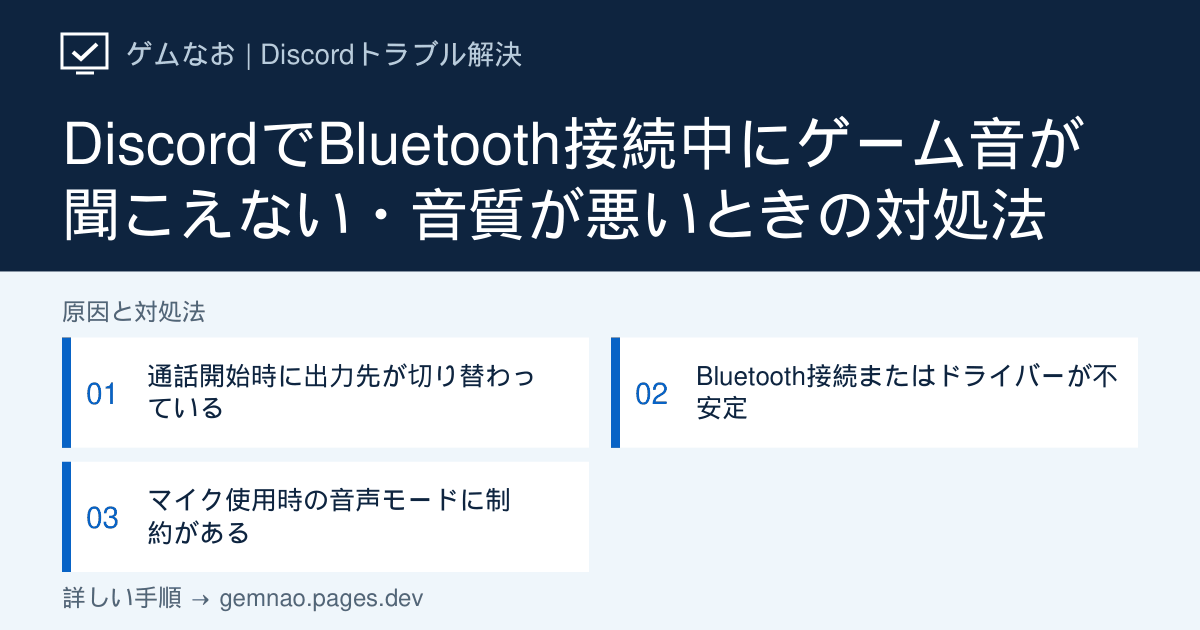
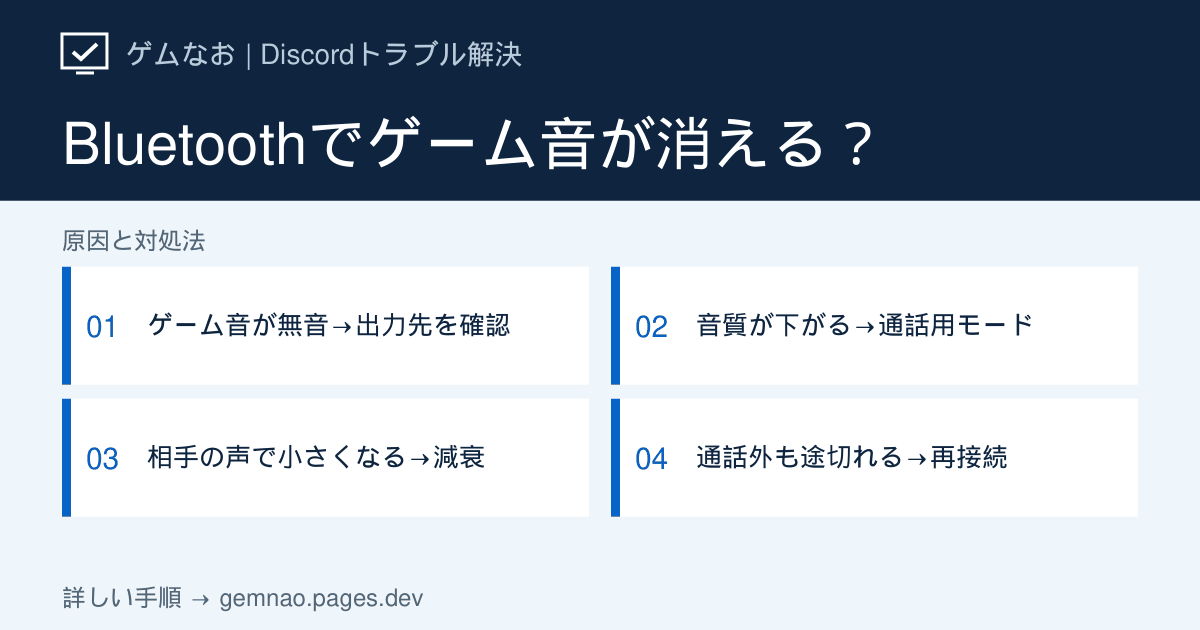
Improve Discord Bluetooth game audio troubleshooting guide

diff --git a/lib/discord-audio-growth-articles.ts b/lib/discord-audio-growth-articles.ts
@@ -31,6 +31,22 @@ const windowsBluetooth = {
   label: 'Microsoft公式：WindowsのBluetooth問題を解決する',
   url: 'https://support.microsoft.com/windows/fix-bluetooth-problems-in-windows-723e092f-03fa-858b-5c80-131ec3fba75c',
 };
+const discordBluetoothQuality = {
+  label: 'Discord公式：通話に参加するとBluetooth音質が低下する理由（日本語）',
+  url: 'https://support.discord.com/hc/ja/articles/19850083499159--既知の問題-通話に参加すると音質が低下する',
+};
+const windowsAppAudio = {
+  label: 'Microsoft公式：アプリごとの音量と出力デバイスを確認する',
+  url: 'https://support.microsoft.com/ja-jp/windows/hardware/audio/fix-app-audio-not-working-while-system-sounds-work-in-windows',
+};
+const windowsBluetoothNoSound = {
+  label: 'Microsoft公式：Bluetooth接続中に音が出ないときの確認',
+  url: 'https://support.microsoft.com/ja-jp/windows/hardware/bluetooth/fix-bluetooth-connected-but-no-sound-issue-on-windows',
+};
+const windowsLeAudio = {
+  label: 'Microsoft公式：Windows 11でのLE Audioと対応機器の条件（英語）',
+  url: 'https://support.microsoft.com/en-us/windows/hardware/bluetooth/configuring-bluetooth-le-audio-quality-settings-on-windows-11',
+};
 
 export const discordAudioGrowthArticles: DiscordArticle[] = [
   {
@@ -144,26 +160,146 @@ export const discordAudioGrowthArticles: DiscordArticle[] = [
     sources: [voiceGuide, micTest], related: ['mic-not-working', 'mic-volume-low', 'system-helper'], checkedAt: '2026-09-19', status: 'verified',
   },
   {
-    slug: 'bluetooth-audio-problem', category: 'audio',
-    title: 'DiscordでBluetooth接続中にゲーム音が聞こえない・音質が悪いときの対処法',
+    slug: 'bluetooth-audio-problem',
+    category: 'audio',
+    title:
+      'Discord通話でBluetoothのゲーム音が消える・音質が悪くなる原因と直し方',
     shortTitle: 'Bluetoothでゲーム音が消える・音質が悪い',
-    seoTitle: 'DiscordでBluetoothのゲーム音が聞こえない・音質が悪い時の直し方',
-    metaDescription: 'Discord通話を始めるとBluetoothイヤホンのゲーム音が消える、音質が悪くなる場合の対処法。入出力機器と通話用音声モードを確認します。',
-    symptom: 'BluetoothイヤホンでDiscord通話へ入るとゲーム音が聞こえない、音がモノラルのように悪化する、別のスピーカーへ切り替わる場合の手順です。',
-    target: 'Windows 11 / Windows 10版 Discordデスクトップアプリ',
-    conclusion: 'WindowsとDiscordの入出力先を確認し、Bluetooth機器を再接続します。改善しなければ別マイクまたは有線機器で切り分けます。',
-    quickFixes: ['WindowsとDiscordの出力先を同じBluetooth機器へそろえる', 'Bluetooth機器を削除して再ペアリングする', '別マイクか有線ヘッドセットで症状が消えるか確認する'],
+    seoTitle:
+      'Discord通話でBluetoothのゲーム音が消える・音質が悪い時の対処法',
+    metaDescription:
+      'Discord通話中、Bluetoothイヤホンのゲーム音が消える場合と音質だけ下がる場合を判定表で切り分け。Windowsの音量ミキサー、通話用音声モード、別マイクでの比較、再ペアリングが必要な条件を解説。',
+    symptom:
+      'Discordの通話に入った直後、ゲーム音がまったく聞こえなくなるのか、聞こえるけれどこもって低音質になるのか。似た症状でも確認先が違います。通話前・通話中・退出後で変化を比べてください。',
+    target: 'Windows 11／Windows 10のDiscordデスクトップアプリとBluetoothヘッドセット',
+    conclusion:
+      'ゲーム音が消えたなら、まずWindowsの出力先と音量ミキサーでゲーム・Discordがどこへ音を出しているか確認します。音は出るが通話開始と同時に音質だけ落ちるなら、Discord公式が説明するBluetoothの通話用音声モードへの切り替えを疑い、Bluetoothのマイクを別のマイクに変更して比較してください。',
+    quickFixes: [
+      '通話前／通話中／退出後で「無音」「音質低下」「音量だけ低下」を区別する',
+      '無音ならWindows「設定」→「システム」→「サウンド」→「音量ミキサー」でゲームの出力先を確認する',
+      '音質だけ低下するなら、Discordの入力をPC内蔵・USBマイクに変えて同じ通話で比べる',
+    ],
+    diagnosisTitle: 'ゲーム音は消えた？ それとも音質だけ下がった？',
+    diagnosisIntro:
+      '同じゲームの音を鳴らしたまま通話に入り、出てからも比べます。原因が分かるまではBluetooth機器の登録を削除しません。',
+    showStatusCheck: false,
+    diagnosis: [
+      {
+        symptom: '通話中、Discordの声は聞こえるがゲーム音だけ無音',
+        check: 'Windowsの音量ミキサーにゲームが表示されるか。ミュートと出力先はどこか',
+        causeIndex: 1,
+      },
+      {
+        symptom: 'ゲーム音は聞こえるが、通話開始でこもる・音質が下がる',
+        check: '通話を抜けると戻るか。Bluetoothマイクを別マイクに変えると改善するか',
+        causeIndex: 2,
+      },
+      {
+        symptom: '相手が話す時だけゲーム音が小さくなる',
+        check: 'こもった音に変化したのか、音量だけ下がったのかを確認',
+        causeIndex: 3,
+      },
+      {
+        symptom: '通話の外でも音が途切れる／機器が一覧から消える',
+        check: 'Windowsの出力デバイス一覧に機器が残るか、ほかのアプリでも同じか',
+        causeIndex: 4,
+      },
+    ],
     causes: [
-      { title: '通話開始時に出力先が切り替わっている', description: '通話用デバイスと音楽用デバイスが別に表示される環境があります。', actions: ['Windowsの音量ミキサーを開く', 'ゲームとDiscordの出力先を確認する', '意図したBluetooth機器へそろえる'] },
-      { title: 'Bluetooth接続またはドライバーが不安定', description: '再接続やWindows更新後にデバイス構成が崩れる場合があります。', actions: ['Bluetooth機器の電源を入れ直す', 'Windowsから機器を削除して再ペアリングする', 'PCメーカー公式のBluetoothドライバーを確認する'] },
-      { title: 'マイク使用時の音声モードに制約がある', description: '機器とWindowsの組み合わせによっては、マイク使用中に再生音質が変化します。', actions: ['ノートPC内蔵マイクを入力に選びBluetooth機器を出力専用で試す', '有線ヘッドセットまたはUSBマイクで比較する', 'Windows 11とデバイスドライバーを更新する'] },
+      {
+        title: 'ゲーム音が消えたら、ゲームとDiscordの出力先を確認',
+        description:
+          'Windowsの既定出力と、ゲームごとに指定された出力先は違う場合があります。ゲーム音だけの問題か、PC全体の無音かも分けます。',
+        actions: [
+          'Bluetoothイヤホンを接続し、ゲームのBGMや効果音を鳴らしたままDiscord通話に入る。Discordの声とゲーム音のどちらが聞こえないかを控える',
+          'Windows 11なら「設定」→「システム」→「サウンド」で「出力」に使うBluetooth機器が選ばれているか確認する。通話中に機器名が変わるかも見る',
+          '同じ画面の「音量ミキサー」→「アプリ」でゲームを探し、ミュート・音量・出力デバイスを確認する。ゲームがなければ音を鳴らして一覧を再確認する',
+          'ゲームの出力先が別のスピーカーや使っていない機器なら、実際に聞いているBluetooth側へ変更して同じ場面を再生する。ゲーム内の出力先を固定している場合はゲーム側も確認する',
+          'Discordの歯車→「音声・ビデオ」で通話の出力先も確認する。両方が聞こえるかと、今度は音質だけ変化するかを記録する',
+        ],
+        note: 'Windows 10ではタスクバーの音量アイコンを右クリックして音量ミキサーを開く手順もあります。ゲーム以外も無音ならWindowsの出力先・機器接続を先に確認します。',
+      },
+      {
+        title: '音質だけ落ちるなら、Bluetoothマイクを別の入力に替える',
+        description:
+          'Discord公式は、通話開始時にヘッドセット用の音声モードへ切り替わり、マイクを使う代わりに再生音質が下がる場合があると説明しています。正常な機器でも起こり得ます。',
+        actions: [
+          '同じゲーム音を再生し、通話前・通話中・退出後で音のこもり方を比べる。退出で戻るなら通話時の音声モード切り替えを疑う',
+          'Discordの左下の歯車→「音声・ビデオ」→「入力デバイス」で、BluetoothヘッドセットのマイクではなくPC内蔵マイクまたはUSBマイクを選ぶ。出力デバイスはBluetoothイヤホンのままにする',
+          '同じ通話に入り直してゲーム音を比較し、相手にもこちらの声が届くか確認する。音質が戻り声も届くなら、その入出力の組み合わせで使う',
+          'Windowsで同じ機器に「ヘッドホン／Stereo」と「ヘッドセット／Hands-Free」が別表示される場合、前者は再生向け、後者は通話向けのことがある。Bluetoothマイクも使う状態で前者だけを強制して、必ず高音質と通話を両立できるわけではない',
+          '別マイクがなく音質を保てない場合は、有線・USBヘッドセットでも比較する。機器の削除と再ペアリングだけでBluetoothの通話用モードの制約はなくならない',
+        ],
+        note: 'LE Audio対応でも、Windows・PCの無線機能とドライバー・イヤホン側の対応が必要です。「Bluetooth 5.x」だけで高音質の双方向通話を保証しません。',
+      },
+      {
+        title: '音量だけ下がるなら、通話中の音量調整を確認',
+        description:
+          '音がこもるのではなく、誰かが話す間だけゲームが小さくなるなら、音声モードとは別の減衰設定を確認します。',
+        actions: [
+          'ゲーム音を一定に保ち、通話相手が話している時だけ小さくなるのか、通話に入った時からずっと小さいのかを比べる',
+          '「相手が話す時だけ」ならDiscordの歯車→「音声・ビデオ」の「減衰」を確認し、現在の値を控えてから0％で比較する',
+          '通話参加中ずっと音量が下がるならWindowsの「その他のサウンド設定」→「通信」タブの設定を確認する。詳しい手順は下の「通話中にゲーム音が小さくなる」の記事を参照する',
+        ],
+        note: '音量の上下だけならBluetoothの接続を削除する前に減衰・通信設定を比べてください。',
+      },
+      {
+        title: '通話の外でも接続が不安定な場合だけ、再接続を試す',
+        description:
+          'Windowsの出力一覧から機器が消える、音が途切れるなど接続自体の問題は、通話時だけの音質低下とは別に扱います。',
+        actions: [
+          '通話を抜け、ゲーム以外の音も同じイヤホンで再生する。通話の外でも途切れるか、Windowsの出力デバイス一覧から消えるかを確認する',
+          '接続自体が不安定な場合、イヤホンの電源とWindowsのBluetoothをいったん切り、入れ直してから再接続する',
+          'まだ検出されない・接続できない場合に限り、Windowsの「設定」→「Bluetoothとデバイス」から対象機器を削除して、製品の案内に沿って再ペアリングする',
+          '再接続後もほかのアプリで途切れるならPC・イヤホンメーカーのドライバーやサポートを確認する。通話時だけ低音質なら原因2へ戻る',
+        ],
+        note: '再ペアリングすると接続設定のやり直しが必要です。音が安定しており通話時だけ音質が変わる場合には先に行いません。',
+      },
     ],
-    ifNotFixed: '機種固有の対応プロファイルやドライバーが関係するため、イヤホン・PCメーカーの公式サポートも確認してください。Bluetooth以外でも音が出ない場合はPCゲーム音声の共通ガイドで切り分けます。',
+    ifNotFixed:
+      'Windowsで別アプリも無音ならBluetooth機器・Windowsの音声設定を確認します。Bluetoothだけで再現するなら機器の型番とWindowsの版、Discordの入力・出力設定、通話前後の比較結果を控え、PC／イヤホンメーカーまたはDiscordの公式サポートへ相談してください。',
+    followUp: {
+      title: '相手が話すたびにゲーム音量だけ下がる場合',
+      description:
+        '音質は変わらず音量だけが動く場合は、Discordの減衰とWindowsの通信設定を分けて確認できます。',
+      href: '/discord/game-volume-lowers',
+      label: '通話中にゲーム音が小さくなる記事へ進む',
+    },
     faqs: [
-      { question: '通話を始めた瞬間だけ音質が悪くなります', answer: 'マイクを使用する通話用の音声モードへ切り替わっている可能性があります。別マイクを入力に設定して変化を確認してください。' },
-      { question: 'Bluetooth 5以降なら必ず高音質になりますか？', answer: 'バージョン番号だけでは判断できません。PC、イヤホン、Windows、ドライバーが対応する機能をメーカー仕様で確認してください。' },
+      {
+        question: 'Windowsで「ヘッドホン」と「ヘッドセット」の両方が見えます。どちらを選ぶ？',
+        answer:
+          '前者は再生向け、後者はマイクを使う通話向けの表示である場合があります。まずDiscordの入力を別マイクに替え、Bluetoothを出力に残して通話中のゲーム音と声を比較してください。Bluetoothマイクも使うなら高音質の再生を必ず維持できるとは限りません。',
+      },
+      {
+        question: '再ペアリングしたのに通話で音がこもります。故障ですか？',
+        answer:
+          '通話から抜けると元の音質へ戻るなら、Discord公式が説明するBluetoothの通話用音声モードの可能性があります。別マイクに切り替えて比較してください。通話以外でも音が途切れるなら、接続や機器の問題を確認します。',
+      },
+      {
+        question: 'Bluetooth 5.3対応なら高音質で通話できますか？',
+        answer:
+          '番号だけでは判定できません。LE Audioなどの機能にはWindows、PCの無線機能とドライバー、イヤホンの対応が必要です。使用中の組み合わせを各メーカーの仕様で確認してください。',
+      },
     ],
-    sources: [voiceGuide, windowsBluetooth], related: ['game-volume-lowers', 'cant-hear-voice', 'stream-no-audio'], checkedAt: '2026-09-19', status: 'verified',
+    sources: [
+      discordBluetoothQuality,
+      windowsAppAudio,
+      windowsBluetoothNoSound,
+      windowsLeAudio,
+      voiceGuide,
+      windowsBluetooth,
+    ],
+    related: ['game-volume-lowers', 'cant-hear-voice', 'mic-not-working'],
+    checkedAt: '2026-09-28',
+    status: 'verified',
+    ogTitle: 'Bluetoothでゲーム音が消える？',
+    ogSteps: [
+      'ゲーム音が無音→出力先を確認',
+      '音質が下がる→通話用モード',
+      '相手の声で小さくなる→減衰',
+      '通話外も途切れる→再接続',
+    ],
   },
   {
     slug: 'game-not-detected', category: 'game',

diff --git a/lib/og-image-manifest.ts b/lib/og-image-manifest.ts
@@ -2,7 +2,7 @@
 // Page path -> hash of the card text (used as a cache-busting query).
 export const ogImageManifest: Record<string, string> = {
   "/discord/audio-input-not-found": "3a73fd7c",
-  "/discord/bluetooth-audio-problem": "02597c06",
+  "/discord/bluetooth-audio-problem": "204d6798",
   "/discord/bot-add": "77bf7c24",
   "/discord/bot-not-responding": "ee315b02",
   "/discord/bot-remove": "b35c5c5b",
